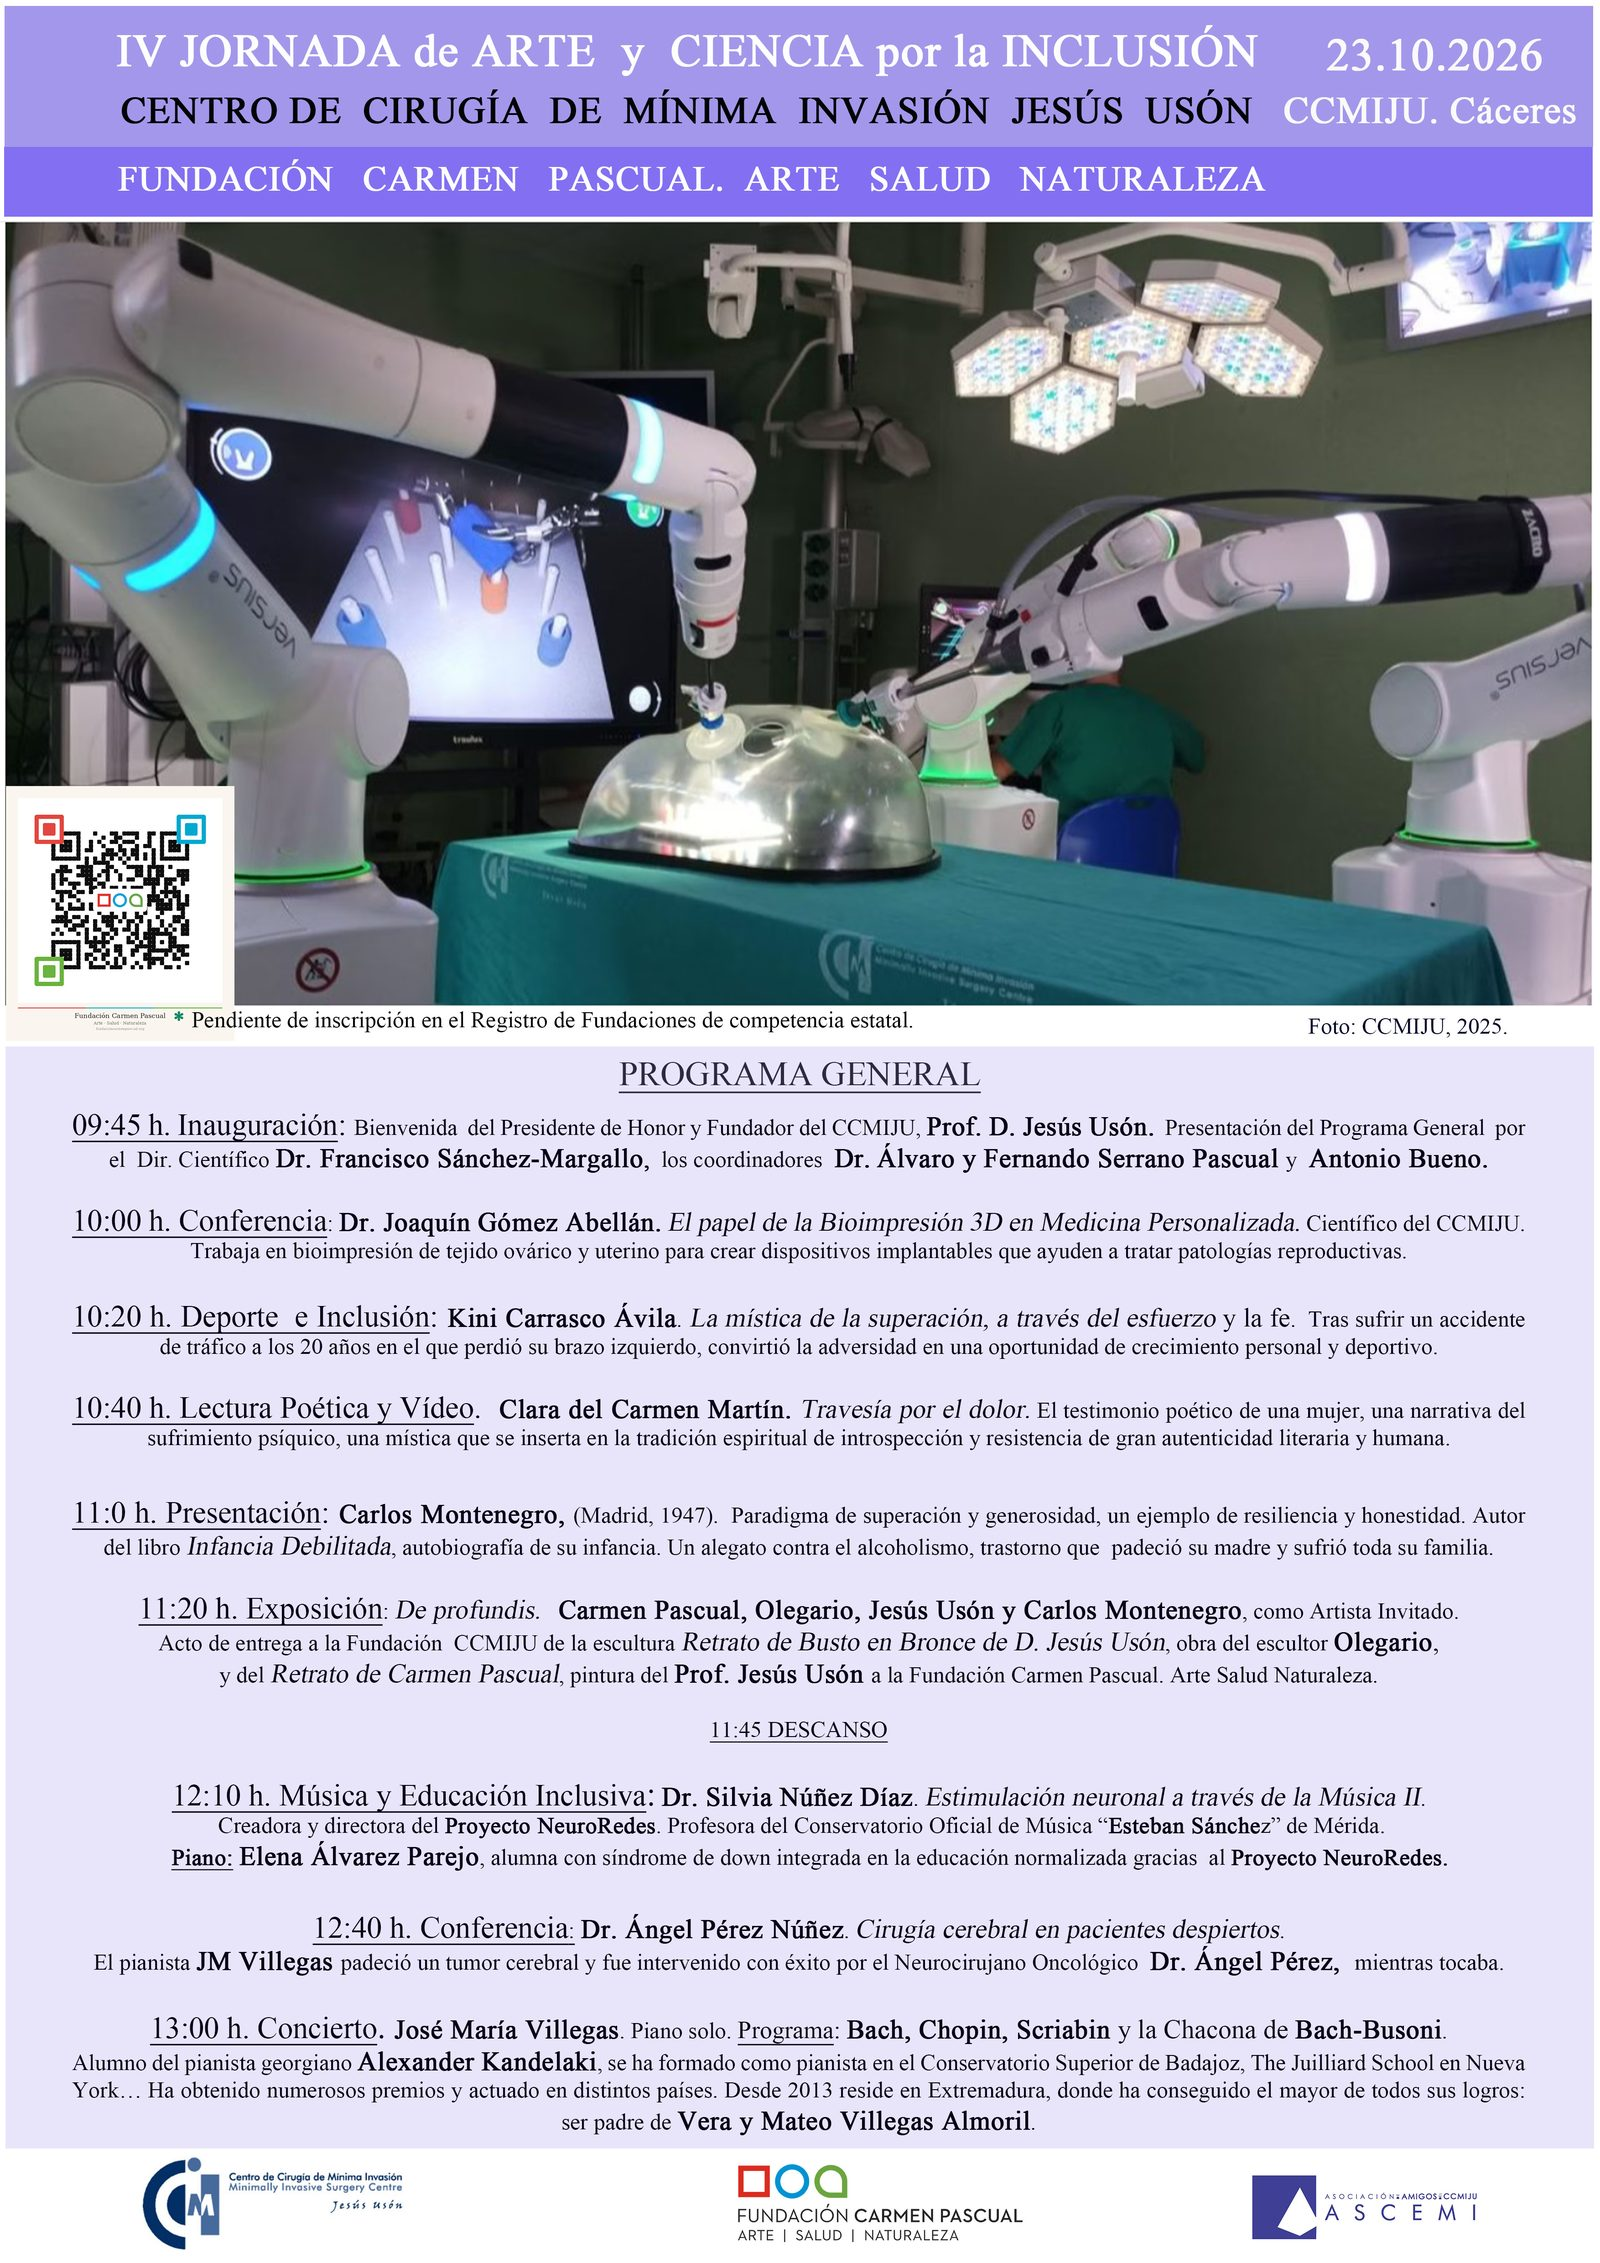
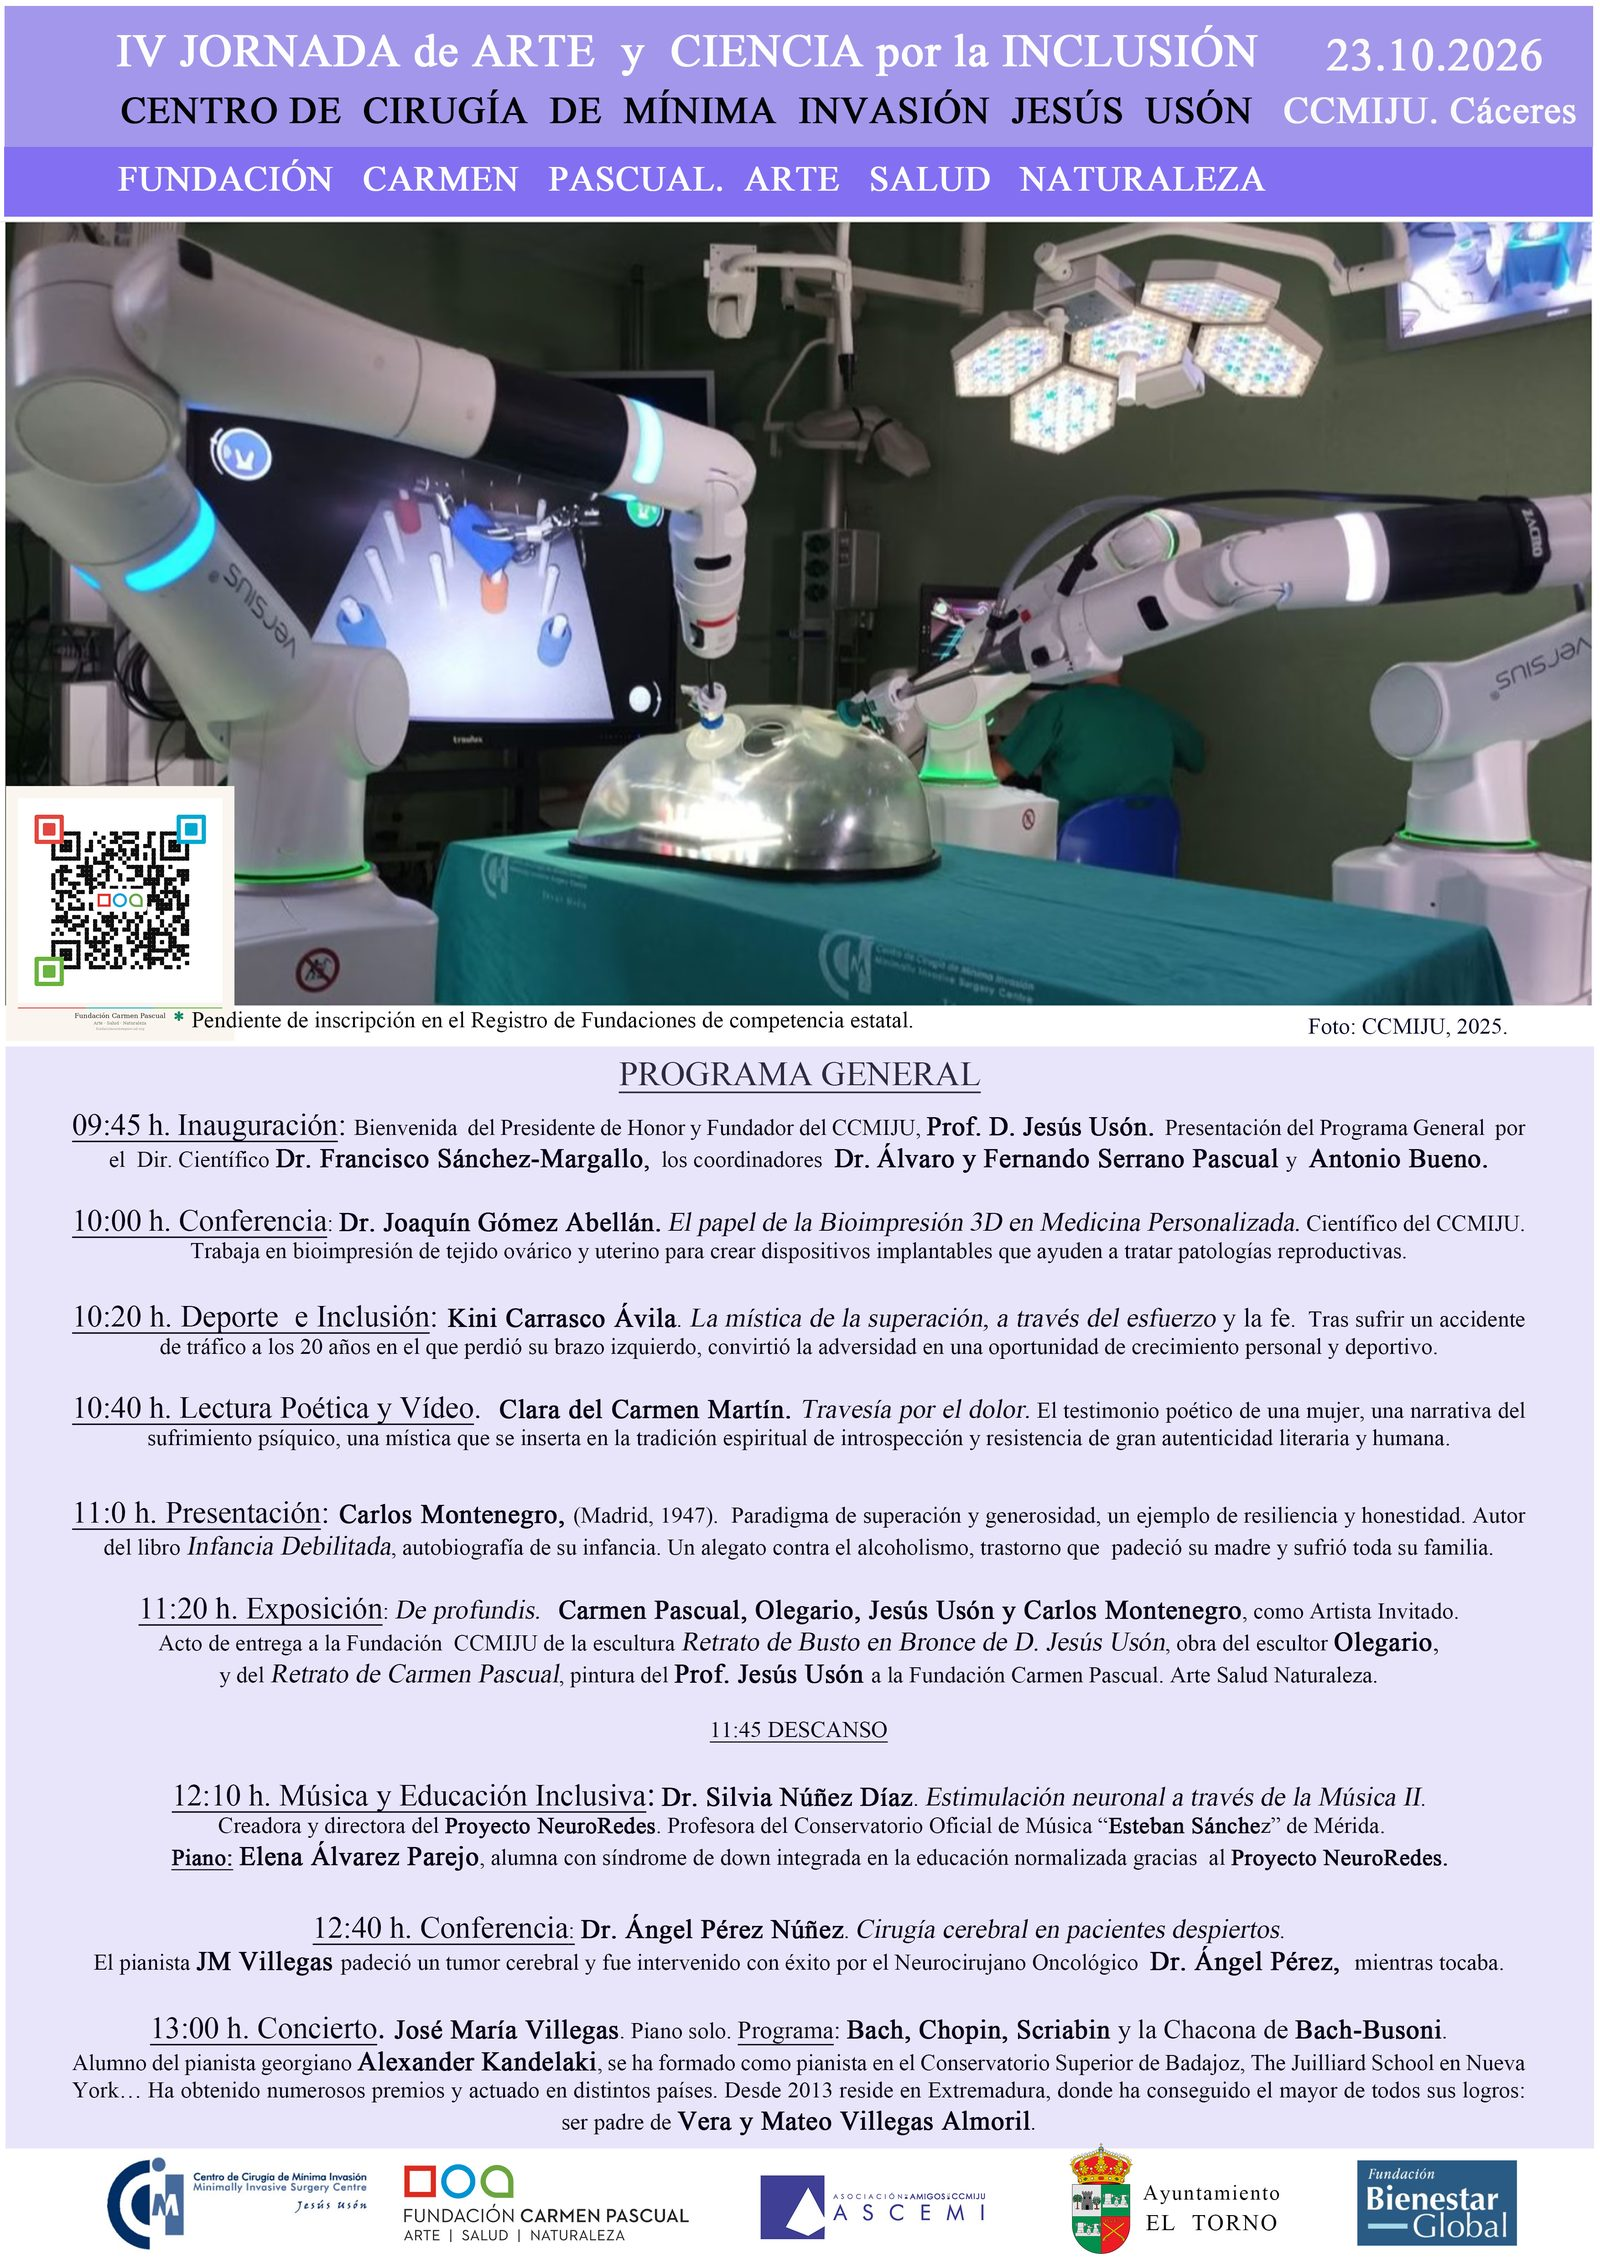
IV Jornada: cartel nuevo con El Torno, y el busto ya es de bronce
El cartel general se sustituye por la version que incorpora los
logotipos del Ayuntamiento de El Torno y de la Fundacion Bienestar
Global; el resto del cartel es identico. En la linea de colaboradores
entra el Ayuntamiento de El Torno (Caceres), con la misma formula del
avance de prensa.

El pie del busto de Jesus Uson decia que estaba en el modelado
original: ya esta fundido en bronce.

Changed region(s): [[0.6562, 0.928, 0.9688, 1.0], [0.0625, 0.928, 0.4062, 1.0], [0.4375, 0.9589, 0.625, 0.9898]]

diff --git a/docs/index.html b/docs/index.html
@@ -2670,9 +2670,9 @@
           </figure>
           <figure>
             <img src="obras/jornada-iv/busto-jesus-uson-olegario.jpg" class="obra-img" loading="lazy"
-                 alt="Retrato de busto de Jesús Usón, del escultor Olegario, en el modelado original de 2025">
-            <figcaption class="only-es"><em>Retrato de busto de Jesús Usón</em>, del escultor Olegario, 2025, en el modelado original.</figcaption>
-            <figcaption class="only-en"><em>Bust portrait of Jesús Usón</em>, by the sculptor Olegario, 2025, in the original modelling.</figcaption>
+                 alt="Retrato de busto en bronce de Jesús Usón, obra del escultor Olegario, 2025">
+            <figcaption class="only-es"><em>Retrato de busto en bronce de Jesús Usón</em>, del escultor Olegario, 2025.</figcaption>
+            <figcaption class="only-en"><em>Bronze bust portrait of Jesús Usón</em>, by the sculptor Olegario, 2025.</figcaption>
           </figure>
         </div>
 
@@ -2821,8 +2821,8 @@
       </div>
 
 
-      <p class="jornada-iv-colaboran only-es"><strong>Colaboran:</strong> ASCEMI (Asociación de Amigos del Centro de Cirugía). La fundición del bronce de <em>De profundis</em> ha sido financiada a partes iguales por la Fundación Bienestar Global y ASCEMI.<br><span class="jornada-iv-nota">* Fundación Carmen Pascual. Arte Salud Naturaleza, pendiente de inscripción en el Registro de Fundaciones de competencia estatal.</span></p>
-      <p class="jornada-iv-colaboran only-en"><strong>With the support of:</strong> ASCEMI (Friends of the Surgery Centre Association). The bronze casting for <em>De profundis</em> was funded in equal parts by Fundación Bienestar Global and ASCEMI.<br><span class="jornada-iv-nota">* Fundación Carmen Pascual. Arte Salud Naturaleza, pending registration in the Spanish national Register of Foundations.</span></p>
+      <p class="jornada-iv-colaboran only-es"><strong>Colaboran:</strong> ASCEMI (Asociación de Amigos del Centro de Cirugía) y Ayuntamiento de El Torno (Cáceres). La fundición del bronce de <em>De profundis</em> ha sido financiada a partes iguales por la Fundación Bienestar Global y ASCEMI.<br><span class="jornada-iv-nota">* Fundación Carmen Pascual. Arte Salud Naturaleza, pendiente de inscripción en el Registro de Fundaciones de competencia estatal.</span></p>
+      <p class="jornada-iv-colaboran only-en"><strong>With the support of:</strong> ASCEMI (Friends of the Surgery Centre Association) and El Torno Town Council (Cáceres). The bronze casting for <em>De profundis</em> was funded in equal parts by Fundación Bienestar Global and ASCEMI.<br><span class="jornada-iv-nota">* Fundación Carmen Pascual. Arte Salud Naturaleza, pending registration in the Spanish national Register of Foundations.</span></p>
 
       <div class="jornada-iv-cierre">
         <button class="btn-outline" onclick="cerrarJornadaIV()">
